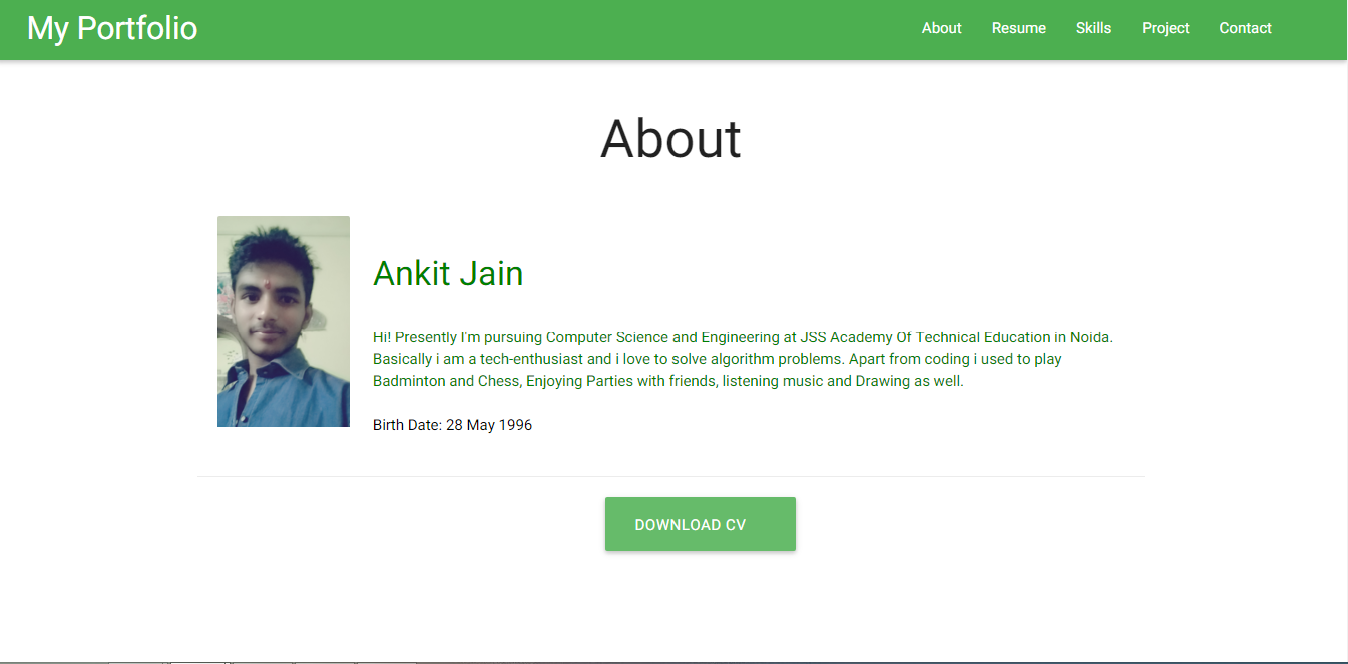
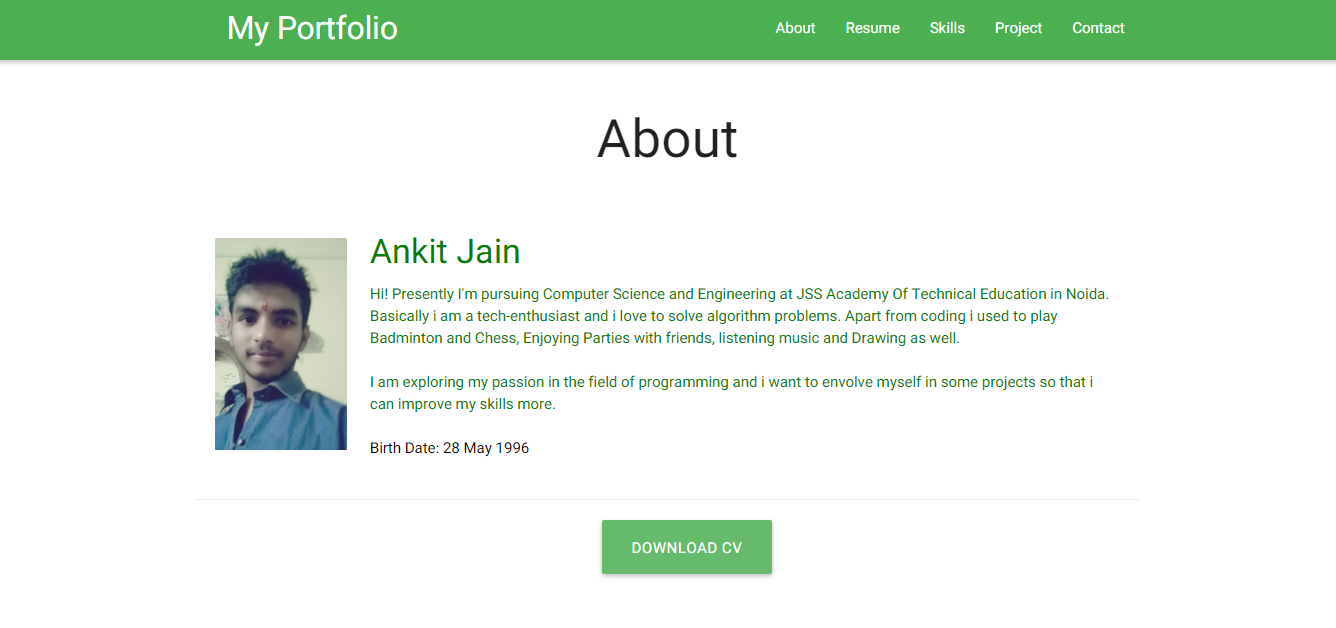
Portfolio project changed

diff --git a/index.html b/index.html
@@ -54,7 +54,7 @@
                                     <h4 style="color:green">Ankit Jain</h4>
                                     
                                     <p style="color:green">Hi! Presently I'm pursuing Computer Science and Engineering at JSS Academy Of Technical Education in Noida. Basically i am a tech-enthusiast and i love to solve algorithm problems. Apart from coding i used to play Badminton and Chess, Enjoying Parties with friends, listening music and Drawing as well.</p><br>
-                                    <p style="color:green">I am exploring my passion in the field of programming and i want to envolve myself in some projects so that i can improve my skills more.</p>
+                                    <p style="color:green">I am exploring my passion in the field of programming and i want to envolve myself in some projects so that i can improve my skills more.</p><br>
                                     <p style="color:black">Birth Date: 28 May 1996</p>
                                 </div>
                             </div>
@@ -106,11 +106,11 @@
                             </div>
                         </div>
                         <div class="row">
-                            <div class="col s12 m8 offset-m4">
+                            <div class="col s12 m9 offset-m3">
                                 <div class="card-content black-text">
                                     <span class="card-title">INTERMEDIATE(10+2)</span>
                                     <p>Grace Convent Sr. Sec. School, Mathura</p><br>
-                                    <p>92.25% in ISC Board(School Toper)</p>
+                                    <p>92.25% in ISC Board(School Topper)</p>
                                 </div>
                             </div>
                         </div>
@@ -124,7 +124,7 @@
                             </div>
                         </div>
                         <div class="row">
-                            <div class="col s12 m8 offset-m4">
+                            <div class="col s12 m9 offset-m3">
                                 <div class="card-content black-text">
                                     <span class="card-title">HIGH SCHOOL</span>
                                     <p>Grace Convent Sr. Sec. School, Mathura</p><br>
@@ -148,7 +148,7 @@
                             </div>
                         </div>
                         <div class="row">
-                            <div class="col s12 m8 offset-m4">
+                            <div class="col s12 m9 offset-m3">
                                 <div class="card-content black-text">
                                     <span class="card-title">Tryst'16, IIT Delhi.</span>
                                     <p>Campus Ambassador</p><br>
@@ -166,7 +166,7 @@
                             </div>
                         </div>
                         <div class="row">
-                            <div class="col s12 m8 offset-m4">
+                            <div class="col s12 m9 offset-m3">
                                 <div class="card-content black-text">
                                     <span class="card-title">HackerEarth</span>
                                     <p>Campus Ambassador</p><br>
@@ -186,7 +186,7 @@
                             </div>
                         </div>
                         <div class="row">
-                            <div class="col s12 m8 offset-m4">
+                            <div class="col s12 m9 offset-m3">
                                 <div class="card-content black-text">
                                     <span class="card-title">Pennyful</span>
                                     <p>Campus Ambassador</p><br>
@@ -204,7 +204,7 @@
                             </div>
                         </div>
                         <div class="row">
-                            <div class="col s12 m8 offset-m4">
+                            <div class="col s12 m9 offset-m3">
                                 <div class="card-content black-text">
                                     <span class="card-title">Twenty19</span>
                                     <p>Campus Ambassador</p><br>
@@ -346,7 +346,8 @@
                             <div class="col s12 m12">
                                 <div class="card-content black-text">
                                     <img src="hack.png" style="width:100%; height:100%"></br>
-                                    <p></p><br>
+                                    <p></p>
+                                    <p></p>
                                     <p></p>
                                 </div>
                             </div>
